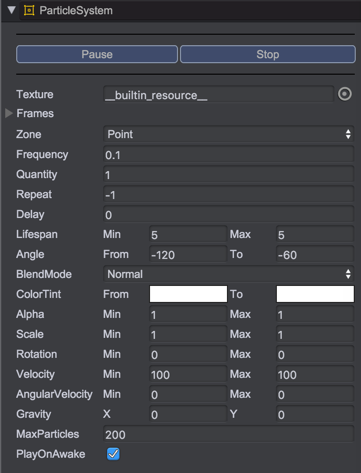
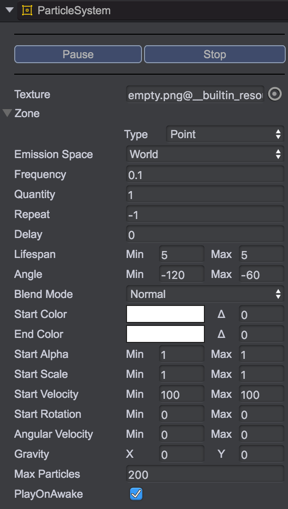
Improve particle system documents.

diff --git a/en/manual/Plugin/ParticleSystem/ParticleSystem.md b/en/manual/Plugin/ParticleSystem/ParticleSystem.md
@@ -16,31 +16,89 @@ You can create a new particle system by creating a Particle System GameObject (m
 Select the particle system object in the scene, you can view the properties through the inspector panel, modify them and preview. It looks like this:   
 ![](images/inspector_main_module.png)     
 
-| Properties | Description |
-| ------------- | ------------- |
-| Textures |  Array of textures that the particle will use. Texture is picked at random.  |
-| Zone | The shape of the emission zone. Currently supports four types: Zone.POINT(point), Zone.LINE(line), Zone.CIRCLE(circle) and Zone.RECTANGLE(rectangle). |
-| Frequency | How often per emission, in seconds.  |
-| Quantity | How many particles will be generated per emission. |
-| Repeat | The repeat count of emission, -1 means loop always. |
-| Delay | The delay time of the first emission in seconds. |
-| Lifespan | How long each particle lives once it is emitted in seconds. |
-| Angle | The emission angle of particles, the value is picked at random within specified min-max range. |
-| BlendMode | The blend mode of particle.  |
-| SrcColorTint | The start color of particle. |
-| DstColorTint | The target color of particle. |
-| StartAlpha | The transparency of particles, the value is picked at random within specified min-max range. |
-| StartScale | The start scale of particles, the value is picked at random within specified min-max range. |
-| StartRotation | The start rotation of particles, the value is picked at random within specified min-max range. |
-| StartVelocity | The start velocity of particles, the value is picked at random within specified min-max range. |
-| AngularVelocity | The start angular velocity of particles, the value is picked at random within specified min-max range. |
-| Gravity | The gravity of particle systems. |
-| MaxParticles | The maximum number of particles, the emission will be stopped when the number of particles exceeds this value. |
-| PlayOnAwake | Whether the particle system will start playing automatically. If set to false, we need call relative method manually for emitting particles.(see [ParticleSystem API](http://docs.zuoyouxi.com/api/officialplugins/particleSystem/CParticleSystem.html)) |
+## Texture
+The texture that particles will use, support the following types: 
+* A frame in atlas, then all particles will use the same frame.
+* The whole atlas, then particles will use random frame of atlas.
+* Normal texture with sprite sheet data, then particles will use relative frame according to sprite sheet data, see Sprite Sheet Animation module.
+
+## Zone
+The shape of the emission zone. Currently supports four types: Zone.POINT(point), Zone.LINE(line), Zone.CIRCLE(circle) and Zone.RECTANGLE(rectangle).
+
+## EdgeEmission
+Whether the particles will be emitted from the edge of the zone.
+
+## EmissionSpace
+The emission space. Currently support two types: EmissionSpace.WORLD and EmissionSpace.LOCAL.
+* If set to EmissionSpace.WORLD, the emitted particles will not affected by particle system node.
+
+## Frequency
+How often per emission, in seconds. 
+
+## Quantity
+How many particles will be generated per emission.
+
+## Repeat
+The repeat count of emission, -1 means loop always.
+
+## Delay
+The delay time of the first emission in seconds.
+
+## Lifespan
+How long each particle lives once it is emitted in seconds.
+
+## Angle
+The emission angle of particles, the value is picked at random within specified min-max range.
+
+## BlendMode
+The blend mode of particle.
+
+## StartColor
+The start color of particle.
+
+## StartColorVariation
+The variable of start color.
+
+## EndColor
+The end color of particle.
+
+## EndColorVariation
+The variation of end color.
+
+## StartAlpha
+The transparency of particles, the value is picked at random within specified min-max range.
+
+## StartScale
+The start scale of particles, the value is picked at random within specified min-max range.
+
+## StartRotation
+The start rotation of particles, the value is picked at random within specified min-max range.
+
+## StartVelocity
+The start velocity of particles, the value is picked at random within specified min-max range.
+
+## AngularVelocity
+The start angular velocity of particles, the value is picked at random within specified min-max range.
+
+## Gravity
+The gravity of particle systems.
+
+## MaxParticles
+The maximum number of particles, the emission will be stopped when the number of particles exceeds this value.
+
+## PlayOnAwake
+Whether the particle system will start playing automatically. If set to false, we need call relative method manually for emitting particles.(see [ParticleSystem API](http://docs.zuoyouxi.com/api/officialplugins/particleSystem/CParticleSystem.html))
+
+# Sprite Sheet Animation Module
+![](images/inspector_frame_animation_module.png)  
+Through this module, we can configurate the frame animation of particles.
+* InitialFrame: The initial frame of particle's frame animatio.
+* FrameRate: The frame rate of particle's frame animation.
+Node: This module will only take effect when the texture property is set to normal texture with sprite sheet data.
 
 # Color Control Module  
 ![](images/inspector_color_module.png)    
-If enable this module, we can control the color change of each particle in the lifespan through a curve. If this module is off, the particle color will vary linearly between srcColorTint and dstColorTint.
+If enable this module, we can control the color change of each particle in the lifespan through a curve. If this module is off, the particle color will vary linearly between startColor and endColor.
 
 # Alpha Control Module   
 ![](images/inspector_alpha_module.png)   

diff --git a/zh/manual/Plugin/ParticleSystem/ParticleSystem.md b/zh/manual/Plugin/ParticleSystem/ParticleSystem.md
@@ -16,31 +16,90 @@
 选中场景中的粒子系统物体，即可通过属性查看面板对粒子系统的各种属性进行设置和预览。  
 ![](images/inspector_main_module.png)    
 
-| 属性 | 描述 |
-| ------------- | ------------- |
-| Textures | 粒子使用的图片数组，如果指定了多张图片，在发射时将随机选取一个。 |
-| Zone | 发射区域，支持点、线段、圆、矩形四种区域类型，发射区域决定了粒子的初始位置。 |
-| Frequency | 发射频率，即多久发射一次粒子，以秒为单位。 |
-| Quantity | 每次发射的粒子数量。 |
-| Repeat | 重复发射次数，若设置为-1则表示循环发射。 |
-| Delay | 发射延迟，以秒为单位。 |
-| Lifespan | 每个粒子的生命时长，在指定范围内随机取值，以秒为单位。 |
-| Angle | 粒子的发射角度，在指定范围内随机取值，用来控制粒子的发射方向。 |
-| BlendMode | 粒子的混合模式，对应于Phaser.blendModes |
-| SrcColorTint | 粒子初始颜色，即粒子刚发射时的颜色。 |
-| DstColorTint | 粒子目标颜色，即粒子生命结束时的颜色。 |
-| StartAlpha | 粒子初始透明度，在指定范围内随机取值。 |
-| StartScale | 粒子初始缩放，在指定范围内随机取值。 |
-| StartRotation | 粒子初始旋转，在指定范围内随机取值。 |
-| StartVelocity | 粒子初始速度，在指定范围内随机取值。 |
-| AngularVelocity | 粒子初始角速度，在指定范围内随机取值。 |
-| Gravity | 粒子系统重力，通过设置重力的水平和垂直分量值，可以实现粒子向某个方向加速运动。 |
-| MaxParticles | 最大粒子数量，当粒子数量超过此值时将暂停发射。 |
-| PlayOnAwake | 粒子系统激活时是否自动开始发射，若设置为false，需要手动调用相关接口进行发射（具体请参考[API文档](http://docs.zuoyouxi.com/api/officialplugins/particleSystem/CParticleSystem.html)） |
+## Texture
+粒子使用的图片，支持以下三种形式：
+* 图集中的某一张图片，此时所有粒子都将使用该图片。
+* 整个图集，此时粒子将随机使用图集中的任一张图片。
+* 设置了 SpriteSheet 信息的普通贴图，此时粒子将根据 SpriteSheet 配置选择相应的序列帧图片，并播放相应的帧动画。
+
+## Zone
+发射区域，支持点、线段、圆、矩形四种区域类型，发射区域决定了粒子的初始位置。
+
+## EdgeEmission
+是否从发射区域的边缘发射粒子。
+
+## EmissionSpace
+发射空间，支持设置为World或者Local。
+* 当设置为 World 时，发射出去的粒子将不再受粒子系统节点的影响。
+* 当设置为 Local 时，发射出去的粒子将跟随粒子系统节点一起移动。
+
+## Frequency
+发射频率，即多久发射一次粒子，以秒为单位。
+
+## Quantity
+每次发射的粒子数量。
+
+## Repeat
+重复发射次数，若设置为-1则表示循环发射。
+
+## Delay
+发射延迟，以秒为单位。
+
+## Lifespan
+每个粒子的生命时长，在指定范围内随机取值，以秒为单位。
+
+## Angle
+粒子的发射角度，在指定范围内随机取值，用来控制粒子的发射方向。
+
+## BlendMode
+粒子的混合模式，对应于 Phaser.blendModes。
+
+## StartColor
+粒子初始颜色，即粒子刚发射时的颜色。
+
+## StartColorVariation
+粒子初始颜色浮动。
+
+## EndColor
+粒子目标颜色，即粒子生命结束时的颜色。
+
+## EndColorVariation
+粒子目标颜色浮动。
+
+## StartAlpha
+粒子初始透明度，在指定范围内随机取值。
+
+## StartScale
+粒子初始缩放，在指定范围内随机取值。
+
+## StartRotation
+粒子初始旋转，在指定范围内随机取值。
+
+## StartVelocity
+粒子初始速度，在指定范围内随机取值。
+
+## AngularVelocity
+粒子初始角速度，在指定范围内随机取值。
+
+## Gravity
+粒子系统重力，通过设置重力的水平和垂直分量值，可以实现粒子向某个方向加速运动。
+
+## MaxParticles
+最大粒子数量，当粒子数量超过此值时将暂停发射。
+
+## PlayOnAwake
+粒子系统激活时是否自动开始发射，若设置为false，需要手动调用相关接口进行发射（具体请参考[API文档](http://docs.zuoyouxi.com/api/officialplugins/particleSystem/CParticleSystem.html))
+
+# 粒子帧动画控制模块   
+![](images/inspector_frame_animation_module.png)     
+通过此模块，可以设置粒子帧动画相关信息，包括：
+* 粒子帧动画的初始帧
+* 粒子帧动画速率  
+注：仅当 Texture 为 SpriteSheet 类型时，此模块才会生效。
 
 # 粒子颜色控制模块   
 ![](images/inspector_color_module.png)    
-开启此模块后，可以通过曲线控制粒子在生命周期内的颜色变化。若将此模块关闭，粒子颜色将在SrcColorTint和DstColorTint间线性变化。
+开启此模块后，可以通过曲线控制粒子在生命周期内的颜色变化。若将此模块关闭，粒子颜色将在 startColor 和 endColor 之间线性变化。
 
 # 粒子透明度控制模块  
 ![](images/inspector_alpha_module.png)   

diff --git a/en/api/officialplugins/particleSystem/CParticleSystem.md b/en/api/officialplugins/particleSystem/CParticleSystem.md
@@ -7,8 +7,9 @@ A Particle System simulates fluid entites such as liquids, clouds and flames by 
 ## Variables
 | Variable Name | Type | Description |
 | ------------- |-------------| -------------|
-| textures | Array | Array of textures that the particle will use. Texture is picked at random.  |
+| texture | qc.Texture | The texture that particles will use.  |
 | zoneType | number | The shape of the emission zone. Currently supports four types: Zone.POINT(point), Zone.LINE(line), Zone.CIRCLE(circle) and Zone.RECTANGLE(rectangle)  |
+| edgeEmission | bool | Whether the particles will be emitted from the edge of the zone. |
 | zoneLength | number | The length of emission zone. Only takes effect when zoneType is Zone.LINE. |
 | zoneRotation | number | The rotation of emission zone. Only takes effect when zoneType is Zone.LINE. |
 | zoneRadius | number | The radius of emission zone. Only takes effect when zoneType is Zone.CIRCLE. |
@@ -21,8 +22,10 @@ A Particle System simulates fluid entites such as liquids, clouds and flames by 
 | lifespan | Array | How long each particle lives once it is emitted in seconds. |
 | angle | Array | The emission angle of particles, the value is picked at random within specified min-max range. |
 | blendMode | number | The blend mode of particle. |
-| srcColorTint | qc.Color | The start color of particle. |
-| dstColorTint | qc.Color | The target color of particle. |
+| startColor | qc.Color | The start color of particle. |
+| startColorVariation | number | The variation of start color. |
+| endColor | qc.Color | The target color of particle. |
+| endColorVariation | number | The variation of end color. |
 | startAlpha | Array | The transparency of particles, the value is picked at random within specified min-max range. |
 | startScale | Array |  The start scale of particles, the value is picked at random within specified min-max range. |
 | startRotation | Array | The start rotation of particles, the value is picked at random within specified min-max range. |
@@ -31,6 +34,8 @@ A Particle System simulates fluid entites such as liquids, clouds and flames by 
 | gravity | qc.Point | The gravity of particle systems. |
 | maxParticles | number | The maximum number of particles, the emission will be stopped when the number of particles exceeds this value. |
 | playOnAwake | boolean | Whether the particle system will start playing automatically. |
+| initialFrame | Array | The initial frame of a particle when play sprite sheet animation, the value is picked at random within specified min-max range. |
+| frameRate | Array | The frame rate of animation, the value is picked at random within specified min-max range. |
 | enableColorCurve | boolean | Whether enable a curve to control the color of particles. |
 | colorCurve | qc.BezierCurve | Curve to control the color of particles, the color will vary linearly between start color and target color if the curve is disabled. |
 | enableAlphaCurve | boolean | Whether enable a curve to control the transparency of particles. |

diff --git a/zh/api/officialplugins/particleSystem/CParticleSystem.md b/zh/api/officialplugins/particleSystem/CParticleSystem.md
@@ -7,14 +7,15 @@ inherit [qc.Node](../../gameobject/CNode.md)
 ## 变量
 | 变量名        |  类型     |   作用           |
 | ------------- |-------------| -------------|
-| textures | Array | 粒子使用的图片数组 |
-| frames | Array | 粒子图片数组，当设定了多张图片时，在发射时将随机选取一个 |
+| texture | qc.Texture | 粒子使用的图片 |
+| emissionSpace | number | 发射空间，自身坐标系(LOCAL)还是世界坐标系(WORLD) |
 | zoneType | number | 发射区域，支持四种类型：Zone.POINT(点)、Zone.LINE(直线)、Zone.CIRCLE(圆)、Zone.RECTANGLE(矩形)  |
 | zoneLength | number | 发射区域长度，仅当zoneType为Zone.LINE时起效 |
 | zoneRotation | number | 发射区域旋转角度，仅当zoneType为Zone.LINE时起效 |
 | zoneRadius | number | 发射区域半径，仅当zoneType为Zone.CIRCLE时起效 |
 | zoneWidth | number | 发射区域宽度，仅当zoneType为Zone.RECTANGLE时起效 |
 | zoneHeight | number | 发射区域高度，仅当zoneType为Zone.RECTANGEL时起效 |
+| edgeEmission | boolean | 是否从发射区域的边缘发射粒子 |
 | frequency | number | 发射频率，即多久发射一次粒子，单位为秒 |
 | quantity | number | 每次发射的粒子数量 |
 | repeat | number | 重复发射次数，-1表示循环发射 |
@@ -22,8 +23,10 @@ inherit [qc.Node](../../gameobject/CNode.md)
 | lifespan | Array | 粒子生命时长，单位为秒，在指定范围内随机取值 |
 | angle | Array | 粒子发射角度，在指定范围内随机取值 |
 | blendMode | number | 混合模式 |
-| srcColorTint | qc.Color | 粒子初始颜色 |
-| dstColorTint | qc.Color | 粒子目标颜色 |
+| startColor | qc.Color | 粒子初始颜色 |
+| startColorVariation | number | 粒子初始颜色浮动 |
+| endColor | qc.Color | 粒子目标颜色 |
+| endColorVariation | number | 粒子目标颜色浮动 |
 | startAlpha | Array | 粒子初始透明度，在指定范围内随机取值 |
 | startScale | Array | 粒子初始缩放，在指定范围内随机取值 |
 | startRotation | Array | 粒子初始旋转，在指定范围内随机取值 |
@@ -32,6 +35,8 @@ inherit [qc.Node](../../gameobject/CNode.md)
 | gravity | qc.Point | 重力 |
 | maxParticles | number | 最大粒子数量，当粒子数量超过此值时将停止发射粒子 |
 | playOnAwake | boolean | 激活时是否自动开始发射粒子 |
+| initialFrame | Array | 粒子播放帧动画时的初始帧，在指定范围内随机取值 |
+| frameRate | Array | 粒子帧动画速率，在指定范围内随机取值 |
 | enableColorCurve | boolean | 是否开启颜色控制曲线 |
 | colorCurve | qc.BezierCurve | 粒子颜色控制曲线，若将此项关闭则粒子颜色将在起始颜色和目标颜色之间线性变化 |
 | enableAlphaCurve | boolean | 是否开启透明度控制曲线 |
